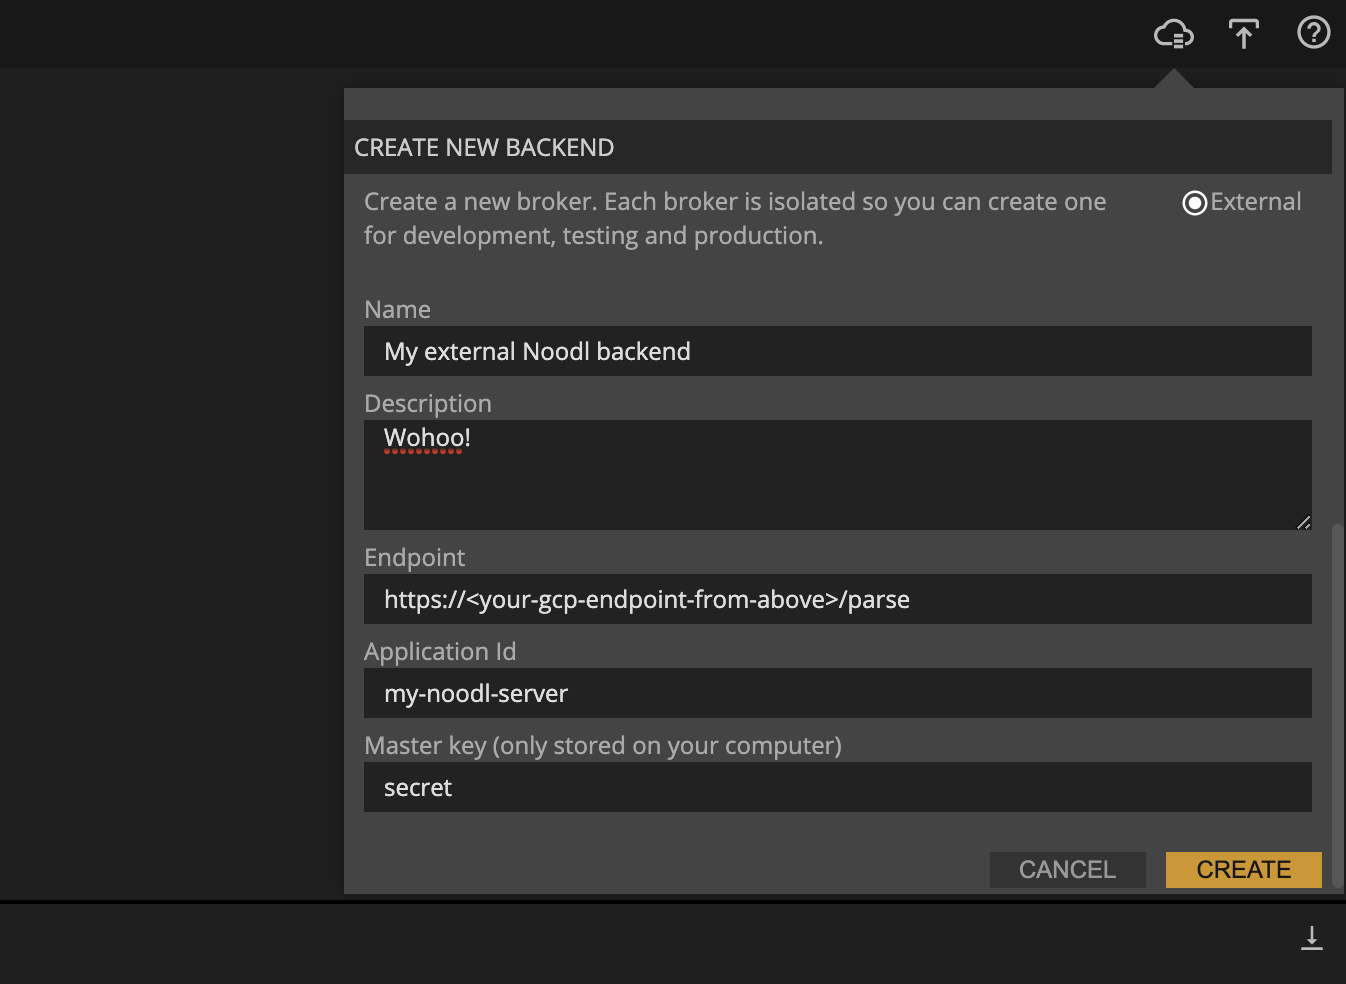
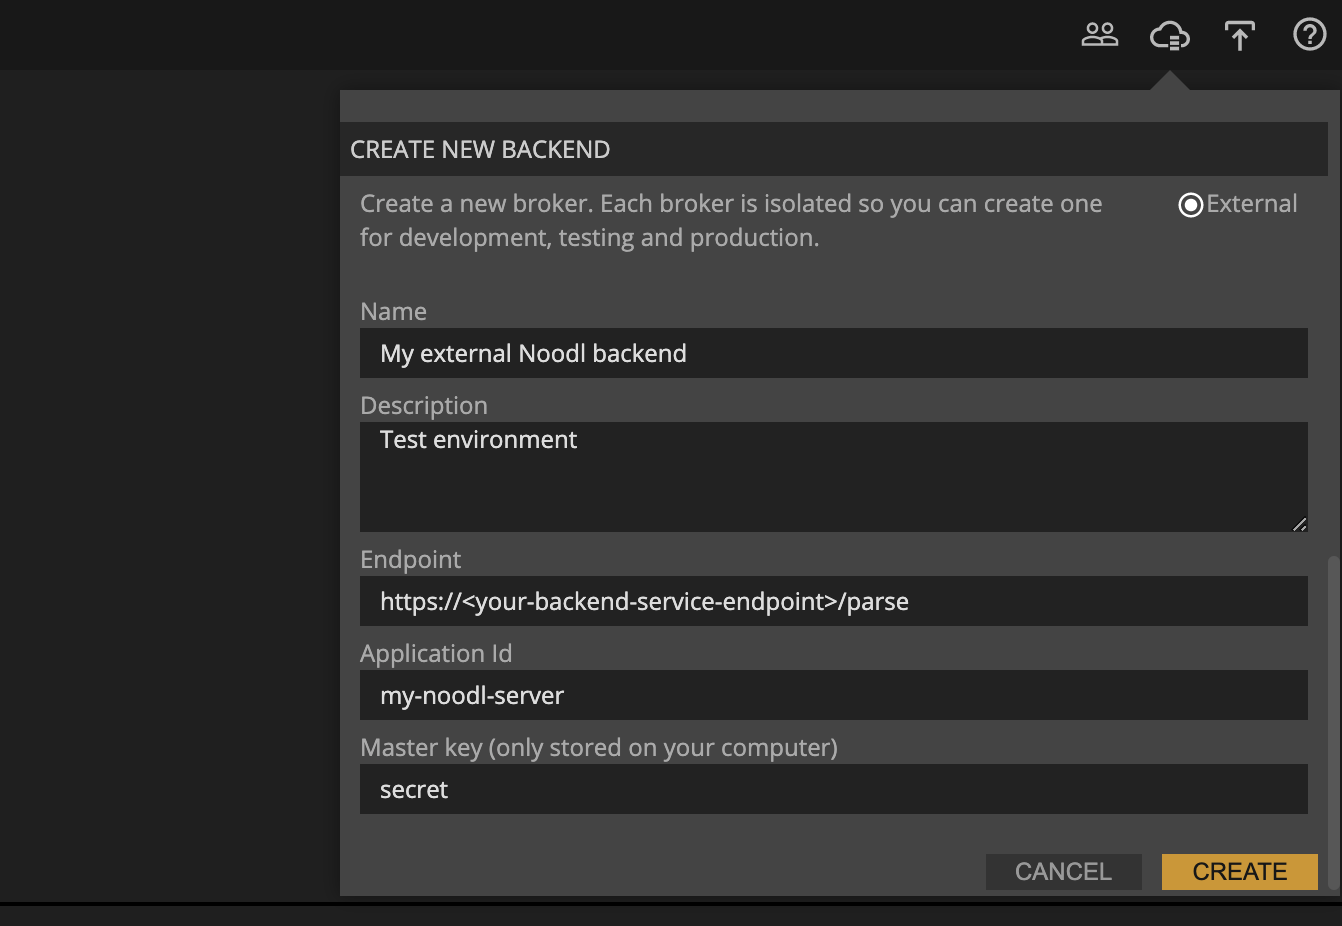
Updated deploy guide with AWS

diff --git a/2.3/guides/deploy-noodl-apps.md b/2.3/guides/deploy-noodl-apps.md
@@ -1,22 +1,22 @@
 # Deploying Noodl applications
-Using the built in Noodl cloud services is great for quickly getting your application up and sharing it with users. When you are ready to take the next step you can deploy your application to any cloud provider. In this guide we describe how to get it up and running on Google Cloud Platform (GCP).
+Using the built in Noodl cloud services is great for quickly getting your application up and sharing it with users. When you are ready to take the next step you can deploy your application to virtually any cloud provider. Here we provide a guide series for how to get it up and running on Google Cloud Platform (GCP) or Amazon Web Services (AWS).
 
 A Noodl application consists of three parts:
 
 * **The database** All Noodl applications must be backed by a database, you can use either a MongoDB or Postgres compatible database.
 
-* **The backend platform** Noodl applications natively support the [Parse Platform](https://parseplatform.org) which is a great choice for a backend platform. A solid open source project with an active foundation supporting many of the critical functions needed.
+* **The backend service** Noodl applications natively support the [Parse Platform](https://parseplatform.org) which is a great choice for a backend service. A solid open source project with an active foundation supporting many of the critical functions needed.
 
 * **Static frontend hosting** Noodl applications are SPAs (Single Page Applications) and need a place that serves the application frontend created when you deploy your application from Noodl.
 
 ## The Database
-You can choose any MongoDB or Postgres compatible database, for this guide we recommend using [MongoDB Atlas](https://www.mongodb.com/cloud/atlas) as it provides a free tier and you can choose to host it on GCP. You should always try to host your database using the same cloud provider and preferably in the same region.
+You can choose any MongoDB or Postgres compatible database, for this guide we recommend using [MongoDB Atlas](https://www.mongodb.com/cloud/atlas) as it provides a free tier and you can choose to host it on GCP or AWS. You should always try to host your database using the same cloud provider as the backend service and preferably in the same region.
 
 Follow the instructions to setup your account and spin up your database cluster. Once your database is up and running you need to get the connection details for the next step. In your cluster dashboard choose *Connect* and then you need to perform a few steps:
 
 * Make sure your database can be reached from any IP. You can choose the option in the connection popup or add the IP *0.0.0.0/0* to the whitelist.
 
-* Create a new database user that will be used to connect to the database. Give it a username and password and note these as you will use them later.
+* Create a new database user that will be used to connect to the database. Give it a username and password and note these as you will use them later. (If you follow the instructions in the connection popup you will create an admin user, that's good it will be needed by the backend service. But make sure you keep the credentials safe.)
 
 Then you can move on to choosing the type of connection.
 
@@ -25,28 +25,21 @@ Then you can move on to choosing the type of connection.
 In the next step you need to find the database connection URI, it will look something like this, replace username and password with the ones you choose above:
 
 ```bash
-mongodb+srv://<username>:<password>@cluster0.fgfgf.mongodb.net/myNoodlDatabase?retryWrites=true&w=majority
+mongodb+srv://<username>:<password>@cluster0.xxxxxxx.mongodb.net/myNoodlDatabase?retryWrites=true&w=majority
 ```
 
 Make sure you keep this URI safe as it includes everything you need to read and write to your database.
 
-## The backend platform
-Next up we will deploy an instance of the [Parse](https://parseplatform.org) backend platform that we will point our Noodl application to. For this we will need to install a few components first.
+## The backend service
+Next up we will deploy an instance of the [Parse](https://parseplatform.org) backend service that we will point our Noodl application to. For this we will need to install a few components first.
 
 **Node.js**  
 You will need *Node.js* and *Npm* installed on your system, you can find the latest versions here <a href="https://nodejs.org/en/download/" target="_blank">Node.js</a> and <a href="https://docs.npmjs.com/downloading-and-installing-node-js-and-npm" target="_blank">npm</a>
 
 **Docker**  
-We will be packaging our backend into a container image before we deploy it to GCP, for that we will be using [Docker](https://www.docker.com/). Make sure to install the desktop tool and to sign up for the *Docker Hub* as that will be needed later.
+We will be packaging our backend into a container image before we deploy it to GCP or AWS, for that we will be using [Docker](https://www.docker.com/). Make sure to install the desktop tool and to sign up for the *Docker Hub* as that will be needed later.
 
-**Google Cloud Platform**  
-Finally you need to sign up for GCP, here you will need to provide your credit card details but Google provides a chunk of free credits that will be more that enough to get you started. You will also need to install the command line tool for GCP you can find the instructions [here](https://cloud.google.com/sdk/docs/install). After you have installed it make sure you authenticate with your google account. Run the following in a console.
-
-```bash
-gcloud auth login
-```
-
-Ok, great now we are ready to setup and build the backend platform. Start by creating a new folder, e.g. *my-noodl-server*, in the folder you need to create a file called *package.json* with the following content.
+Ok, great now we are ready to setup and build the backend service. Start by creating a new folder, e.g. *my-noodl-server*, in the folder you need to create a file called *package.json* with the following content.
 
 ```javascript
 {
@@ -71,7 +64,7 @@ When you have the *package.json* file in place you will run the following comman
 npm install parse-server --save
 ```
 
-This will download and install everything you need to run the backend server. Now it's time to package it all up into a container image. For this you need an additional file called *Dockerfile* with the following content.
+This will download and install everything you need to run the backend service. Now it's time to package it all up into a container image. For this you need an additional file called *Dockerfile* with the following content.
 
 ```bash
 FROM node:14-slim
@@ -83,46 +76,18 @@ EXPOSE 1337
 CMD ["npm","start"]
 ```
 
-After you have created this file in the *my-noodl-server* folder (or what you ended up calling it) you can use Google Cloud Build to build the container.
+After you have created this file in the *my-noodl-server* folder (or what you ended up calling it) the backend service is ready to be deployed to your cloud provider.
 
-Make sure you find the *project id* for your project in GCP. You can find it in the GCP dashboard of your project.
+* **Google Cloud Platform** If you want to deploy with GCP and you have the database cluster ready in GCP [Read here](guides/deploy-noodl-apps/deploy-backend-gcp).
 
-![](deploy-noodl-apps/gcp-project-id.png ':class=img-size-m')
+* **Amazon Web Services** If tou want to deploy with AWS and you have the database cluster up and running in AWS [Read here](guides/deploy-noodl-apps/deploy-backend-aws).
 
-When you have the *project id* at hand you can build the container image in the cloud and it will be available to spin up a web service in GCP.
+## Hooking the backend up to your application
 
-```bash
-gcloud builds submit --tag gcr.io/PROJECT-ID/my-noodl-server
-```
-
-When the build is complete you can deploy a web service with the following command (don't forget to replace *PROJECT-ID* as above, and the environment variables as described below):
+With your brand spanking new backend service up and running you can give it a quick test with the follow command (if you are on Mac or Linux):
 
 ```bash
-gcloud run deploy --image gcr.io/PROJECT-ID/my-noodl-server --set-env-vars "PARSE_SERVER_APPLICATION_ID=my-noodl-server" --set-env-vars "PARSE_SERVER_MASTER_KEY=secret" --set-env-vars "PARSE_SERVER_DATABASE_URI=the-uri-from-mongodb"
-```
-
-In the command above you specify three environment variables for your new web services, these are important and are as follows:
-
-* **PARSE_SERVER_APPLICATION_ID** needs to be an id for your application, you can really choose any but keep it simple. You will provide this in Noodl later to connect to your backend.
-
-* **PARSE_SERVER_MASTER_KEY** is a secret key (password) that will give you full admin access to your backend and database. Keep it safe. You will need it when connecting to your backend from Noodl and use the dashboard. A string of random characters is generally a good choice.
-
-* **PARSE_SERVER_DATABASE_URI** this is the URI you fetched from the MongoDB cluster above. 
-
-After you run the command you will be prompted to provide the following information:
-
-* The name of the service (just press enter to accept *my-noodl-server*)
-
-* The region, make sure it's the same as where your database cluster.
-
-* Make sure you answer **y** to **allow unauthenticated invocations**.
-
-After a few minutes it will complete and you will have the URL for a working Noodl backend! Wohoo! With this URL and your application id you can connect to your backend from Noodl.
-
-You can give it a quick test with the follow command (if you are on Mac or Linux):
-
-```bash
-curl https://<your-gcp-endpoint-from-above>/parse/health
+curl https://<your-endpoint-for-the-backend-service>/parse/health
 ```
 
 It should reply with the following if everything is up and running as it should be (it might take a short while the first time you call this endpoint as it spins up the container on demand):
@@ -131,7 +96,7 @@ It should reply with the following if everything is up and running as it should 
 {"status":"ok"}
 ```
 
-Now that you have a brand new backend up and running we can connect it to our Noodl application. If you open up your Noodl application and then open the cloud services popup, you can choose to create an new backend and then choose *External*. This will give you the option to provide the details of the backend from above.
+Now let's connect it to our Noodl application. If you open up your Noodl application and then open the cloud services popup, you can choose to create an new backend and then choose *External*. This will give you the option to provide the details of the backend from above.
 
 ![](deploy-noodl-apps/noodl-external-backend.png ':class=img-size-l')
 
@@ -139,7 +104,7 @@ After you have created the backend, now you can make it the default backend for 
 
 ![](deploy-noodl-apps/noodl-use-backend.png ':class=img-size-l')
 
-Now it will work just like the built in Noodl backends, you can open the dashboard and manage the data in the backend just like you are used to.
+Now it will work just like the built in Noodl backends, you can open the dashboard and manage the data in the backend just like you are used to but the data is kept in your new database and the backend service is managed and scaled by your cloud provider.
 
 ## Static frontend hosting
 Now with the backend in place and connected to your application the last step is to deploy the frontend of the application. Here you have two options:
@@ -158,7 +123,9 @@ If you want to use your own custom domain, or if you want features like faster g
 
 By using the *deploy to folder* section Noodl will save a version of your frontend to a folder on your local machine, this folder will contain everything needed and you can simply upload the content to your hosting service.
 
-If you would like to keep using GCP to host the frontend you can follow this [guide](https://cloud.google.com/storage/docs/hosting-static-website).
+* **Google Cloud Platform** If you would like use GCP to host the frontend you can follow this [guide](https://cloud.google.com/storage/docs/hosting-static-website). There you will create a bucket, a load balancer and a CDN.
+
+* **Amazon Web Services** If you prefer to use AWS you can watch this [video](https://www.youtube.com/watch?v=BpFKnPae1oY&ab_channel=AmazonWebServices) it will explain how to create an S3 bucket and how to route traffic using the AWS DNS service, Route 53.
 
 
 

diff --git a/2.3/guides/deploy-noodl-apps/deploy-backend-aws.md b/2.3/guides/deploy-noodl-apps/deploy-backend-aws.md
@@ -1,0 +1,70 @@
+# Deploying the backend service to AWS
+First you need to setup an [AWS account](https://aws.amazon.com/) if you don't have one already. You will need to provide your credit card details but AWS has a free tier that will be more than enough to get started.
+
+**AWS CLI**  
+Next you must install and setup the AWS command line interface tool. You can find the installation instructions [here](https://docs.aws.amazon.com/cli/latest/userguide/install-cliv2.html). Following the installation you must configure the CLI so that it points to your AWS account:
+
+```bash
+aws configure
+```
+
+You will need to fetch your credentials for your AWS account to complete this step. You can follow this [guide](https://docs.aws.amazon.com/sdk-for-javascript/v2/developer-guide/getting-your-credentials.html) if you don't know how.
+
+**AWS Copilot**  
+Now you must install a second CLI that will help you manage the services that you spin up in the AWS cloud. You can find instructions for installing the tool [here](https://docs.aws.amazon.com/AmazonECS/latest/developerguide/AWS_Copilot.html#copilot-install). You can find more information on the copilot CLI [here](https://aws.github.io/copilot-cli/)
+
+Ok great, now with the tools in place we can start the deployment of our backend service image. First we need to initialise using *copilot*, run the following in the *my-noodl-server* folder.
+
+```bash
+copilot init --app my-noodl-app --name my-noodl-server --type 'Request-Driven Web Service' --dockerfile './Dockerfile'
+```
+
+* You will be promted to deploy a test environment, make sure you answer **no** to that for now. There are a few things we need to sort out first.
+
+This command will initialize the needed infrastructure to run your containers in the cloud. It will also create a folder called *copilot* that will contain settings files for all your services. You will also find a subfolder in *copilot* called *my-noodl-server* and in that folder a file called *manifest.yml*. You are going to need to edit the default values in that file. The content of the file should be this:
+
+```yml
+name: my-noodl-server
+type: Request-Driven Web Service
+
+image:
+  build: Dockerfile
+  port: 1337
+
+http:
+  healthcheck:
+    path: /parse/health
+    healthy_threshold: 3
+    unhealthy_threshold: 5
+    interval: 10s
+    timeout: 5s
+
+cpu: 1024
+memory: 2048
+
+variables:
+  PARSE_SERVER_APPLICATION_ID: my-noodl-server
+  PARSE_SERVER_MASTER_KEY: secret
+  PARSE_SERVER_DATABASE_URI: mongodb+srv://<the-database-uri-from-before>
+```
+
+Before saving this file you will need to update the variables at the end of the file, these are important and should be as follows:
+
+* **PARSE_SERVER_APPLICATION_ID** needs to be an id for your application, you can really choose any but keep it simple. You will provide this in Noodl later to connect to your backend.
+
+* **PARSE_SERVER_MASTER_KEY** is a secret key (password) that will give you full admin access to your backend and database. Keep it safe. You will need it when connecting to your backend from Noodl and use the dashboard. A string of random characters is generally a good choice.
+
+* **PARSE_SERVER_DATABASE_URI** this is the URI you fetched from the MongoDB cluster you spun up before. 
+
+Great work, now there is only one step left to get this show on the road. In the *my-noodl-server* folder, run the following to deploy the backend service.
+
+
+```bash
+copilot deploy
+```
+
+That's it, after a few minutes of spinning all necessary services up in the cloud you will be provided with the endpoint URL for your backend service. Make note of that as you will need it later.
+
+The URL you get from AWS is one of their generated URLs, it will work just fine but sometimes it's better to setup your own domain. For that you can follow [these](https://docs.aws.amazon.com/apprunner/latest/dg/manage-custom-domains.html) instructions.
+
+Now [Head back](guides/deploy-noodl-apps?id=hooking-the-backend-up-to-your-application) to the deploy guide to hook up your application to your new backend.

diff --git a/2.3/guides/deploy-noodl-apps/deploy-backend-gcp.md b/2.3/guides/deploy-noodl-apps/deploy-backend-gcp.md
@@ -1,0 +1,44 @@
+# Deploying the backend service to GCP 
+First you need to [sign up for GCP](https://cloud.google.com/), here you will need to provide your credit card details but Google provides a chunk of free credits that will be more that enough to get you started. You will also need to install the command line tool for GCP you can find the instructions [here](https://cloud.google.com/sdk/docs/install). After you have installed it make sure you authenticate with your google account. Run the following in a console.
+
+```bash
+gcloud auth login
+```
+
+Make sure you find the *project id* for your project in GCP. You can find it in the GCP dashboard of your project.
+
+![](gcp-project-id.png ':class=img-size-m')
+
+When you have the *project id* at hand you can build the container image in the cloud and it will be available to spin up a web service in GCP. Run the following command in your *my-noodl-server* folder.
+
+```bash
+gcloud builds submit --tag gcr.io/PROJECT-ID/my-noodl-server
+```
+
+When the build is complete you can deploy a web service with the following command (don't forget to replace *PROJECT-ID* as above, and the environment variables as described below):
+
+```bash
+gcloud run deploy --image gcr.io/PROJECT-ID/my-noodl-server --set-env-vars "PARSE_SERVER_APPLICATION_ID=my-noodl-server" --set-env-vars "PARSE_SERVER_MASTER_KEY=secret" --set-env-vars "PARSE_SERVER_DATABASE_URI=the-uri-from-mongodb"
+```
+
+In the command above you specify three environment variables for your new web services, these are important and are as follows:
+
+* **PARSE_SERVER_APPLICATION_ID** needs to be an id for your application, you can really choose any but keep it simple. You will provide this in Noodl later to connect to your backend.
+
+* **PARSE_SERVER_MASTER_KEY** is a secret key (password) that will give you full admin access to your backend and database. Keep it safe. You will need it when connecting to your backend from Noodl and use the dashboard. A string of random characters is generally a good choice.
+
+* **PARSE_SERVER_DATABASE_URI** this is the URI you fetched from the MongoDB cluster you spun up before. 
+
+After you run the command you will be prompted to provide the following information:
+
+* The name of the service (just press enter to accept *my-noodl-server*)
+
+* The region, make sure it's the same as where your database cluster.
+
+* Make sure you answer **y** to **allow unauthenticated invocations**.
+
+After a few minutes it will complete and you will have the URL for a working Noodl backend! Wohoo! With this URL and your application id you can connect to your backend from Noodl. 
+
+You will get a generated URL from the Google Run service, if you prefer you can hook it up to your own custom domain by following [this](https://cloud.google.com/run/docs/mapping-custom-domains) guide.
+
+Now [Head back](guides/deploy-noodl-apps?id=hooking-the-backend-up-to-your-application) to the deploy guide to hook up your application to your new backend.
